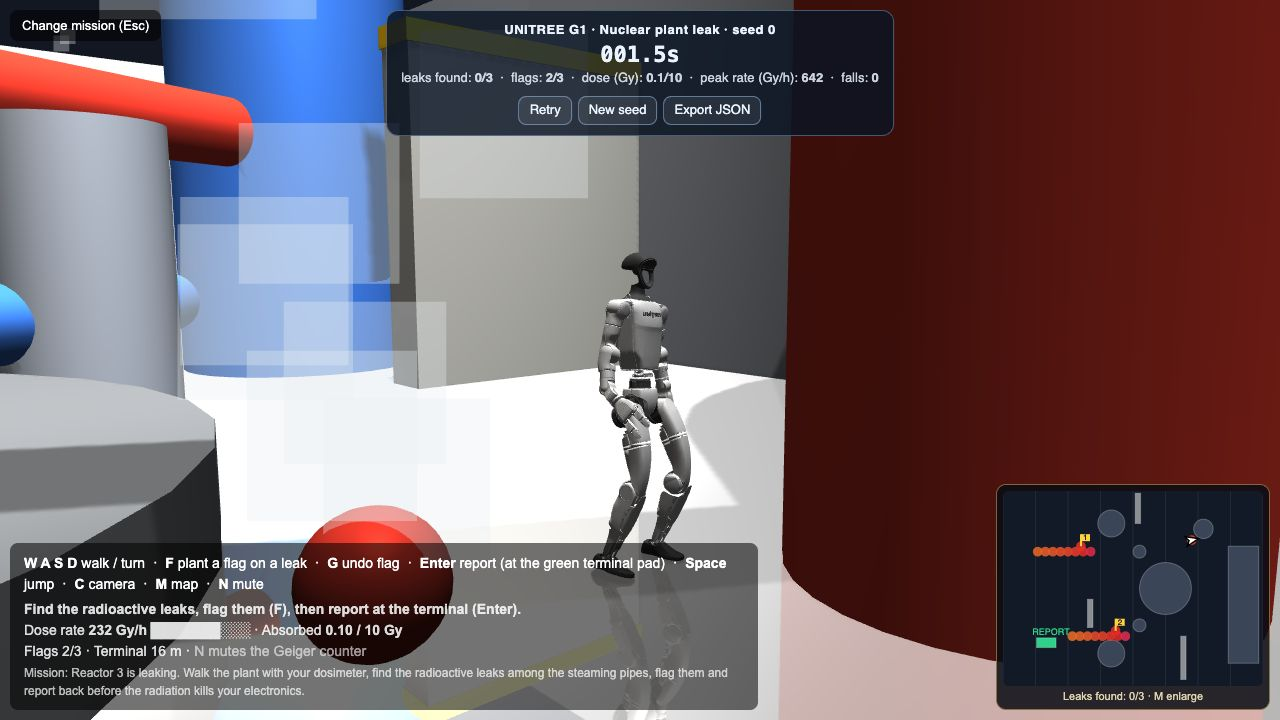
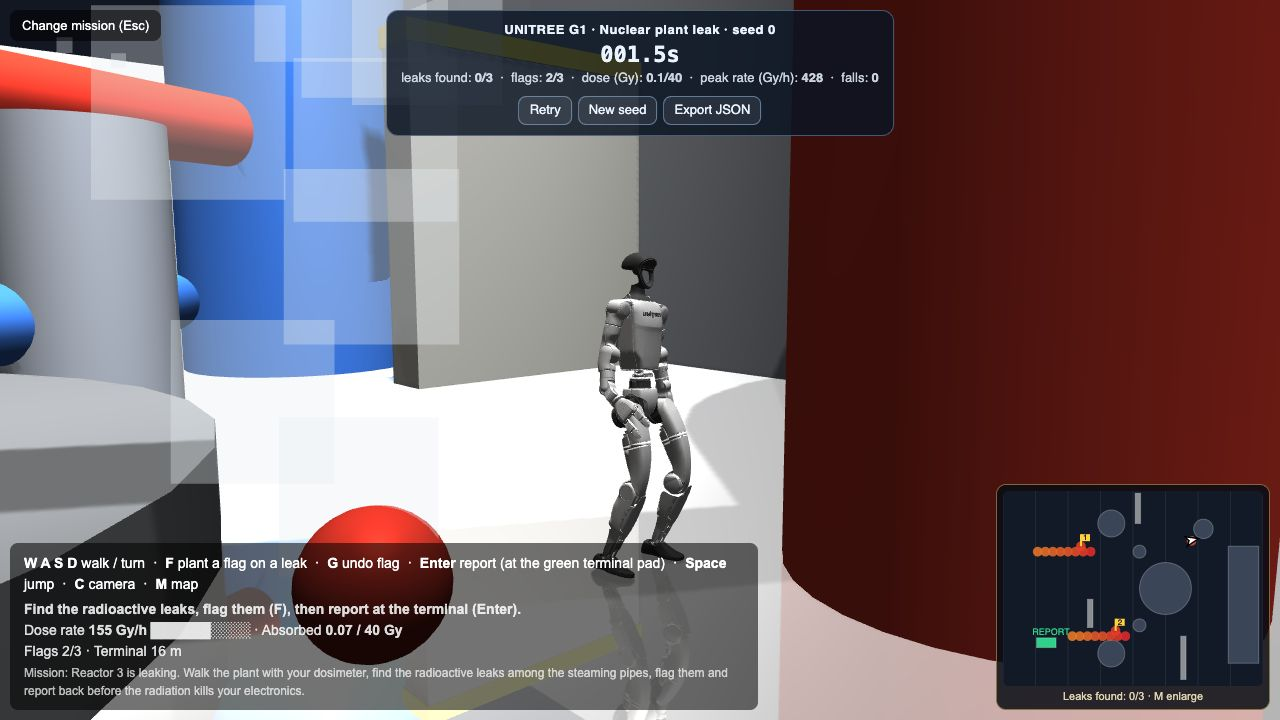
G1 plant: raise radiation tolerance to 40 Gy and soften leak strengths so the mission is achievable; refresh README images

diff --git a/web/src/robots/g1/story.js b/web/src/robots/g1/story.js
@@ -10,8 +10,8 @@ export function g1Story(ctl) {
     { kicker: "The hall", title: "Steam is not radiation",
       text: "Six pipe couplings are steaming. Only some of them are radioactive and every one looks the same. The dose rate on your gauge climbs as you get closer. Concrete shields and the reactor itself block part of the radiation.",
       cam: { pos: m2t(6, -9.5, 7.5), target: m2t(c.reactor[0] - 1, c.reactor[1] + 1, 1.5) } },
-    { kicker: "Mind the dose", title: "Ten grays is all you get",
-      text: "Radiation is slowly killing the robot's electronics. Every Gy you absorb counts against a 10 Gy budget, so triangulate from a few metres away instead of standing on top of a leak. Flags only need to land within 3.5 metres.",
+    { kicker: "Mind the dose", title: "Forty grays is all you get",
+      text: "Radiation slowly kills the robot's electronics. Every Gy you absorb counts against a 40 Gy budget: a careful search uses a quarter to a half of it, but lingering next to a leak burns through it in under a minute. Triangulate from a few metres away. Flags only need to land within 3.5 metres.",
       cam: { pos: m2t(11, 6.8, 3.2), target: m2t(8.5, 3.5, 1.2) } },
     { kicker: "Flag and report", title: "Find three leaks, then report",
       text: "Press F next to a leak to plant a flag (three flags in total, G undoes one). When you are done, walk back to the green pad at the control terminal and press Enter to file your report.",

diff --git a/web/src/robots/g1/nuclear.js b/web/src/robots/g1/nuclear.js
@@ -40,7 +40,7 @@ export class PlantMission {
     const rng = makeRng(seed * 2654435 + 11);
     const order = this.cfg.candidates.map((c, i) => [rng(), i]).sort((a, b) => a[0] - b[0]).map((x) => x[1]);
     const real = new Set(order.slice(0, N_REAL));
-    this.sources = this.cfg.candidates.filter((_, i) => real.has(i)).map((c) => ({ ...c, A: 2400 + rng() * 1200, found: false }));
+    this.sources = this.cfg.candidates.filter((_, i) => real.has(i)).map((c) => ({ ...c, A: 1500 + rng() * 1000, found: false }));
     this.field.setSources(this.sources);
     this.tags = []; this.trail = []; this._trailAt = null;
     this.absorbed = 0; this.doseRate = this.field.bg; this.peak = this.doseRate; this.dead = false;

diff --git a/scripts/g1/build_plant.py b/scripts/g1/build_plant.py
@@ -109,7 +109,7 @@ xml = f'''<mujoco model="g1 nuclear plant">
 (OUT / "plant.xml").write_text(xml)
 mission = {
     "bounds": [X0, X1, Y0, Y1], "start": [0.0, 0.0], "terminal": list(TERM), "candidates": CANDIDATES, "shields": [list(s) for s in SHIELDS],
-    "reactor": [RX, RY, 2.4], "shapes": shapes, "budget_gy": 10.0, "report_radius": 2.2, "tag_radius": 3.5,
+    "reactor": [RX, RY, 2.4], "shapes": shapes, "budget_gy": 40.0, "report_radius": 2.2, "tag_radius": 3.5,
 }
 (OUT / "plant_mission.json").write_text(json.dumps(mission))
 print("wrote plant.xml", len(g), "geoms")

diff --git a/README.md b/README.md
@@ -35,7 +35,7 @@ mocked up). The label in the corner says whether it is real time or sped up.
 only three are radioactive, and they all look the same. **What you are watching:** the G1 is walking with a real learned policy toward a
 leak. The gauge at the bottom left shows the dose rate climbing from 0.4 to about 250 Gy/h as it closes in, the plan map at the bottom right
 paints its path by dose (green to red), and at the end it plants a yellow flag with `F`. **Your job:** flag all three leaks, walk back to
-the green terminal pad and press `Enter` to report, before the radiation uses up the robot's 10 Gy budget.
+the green terminal pad and press `Enter` to report, before the radiation uses up the robot's 40 Gy budget.
 
 ### 2. Containment breach (two Franka arms)
 
@@ -80,8 +80,9 @@ that can go in is a robot with a dosimeter on its chest.*
 - **Radiation model** (`web/src/robots/g1/radiation.js`). Dose rate = background + `A / (r² + ε)` per leak, multiplied by 0.12 for every
   concrete shield wall and 0.05 for the reactor's bio-shield that lies between you and the leak. You read it on a gauge and see it painted along your path on the plan map. Steam is vented at *all* six
   couplings, so steam alone gives nothing away.
-- **Dose budget.** The robot's electronics tolerate 10 Gy. Stand next to a leak and it dies in seconds ("electronics fried by
-  radiation"); triangulate from a few metres instead. Flags must land within 3.5 m of a leak.
+- **Dose budget.** The robot's electronics tolerate 40 Gy. Leak strengths are tuned so that a careful route absorbs roughly 5 to 12 Gy and a
+  sloppy one (2.5 times as long in the hall) 14 to 30 Gy, so the mission is achievable. Standing next to a leak still burns through the
+  budget in under a minute ("electronics fried by radiation"), so triangulate from a few metres instead. Flags must land within 3.5 m of a leak.
 - **World.** A procedurally built plant (`scripts/g1/build_plant.py`): reactor vessel, steam generators, pressurizer, turbine, coolant
   pumps, primary and secondary piping, shield walls and a control terminal. Only the floor and the outer walls collide, because the
   walking policy was trained on flat ground and trips on obstacles.
